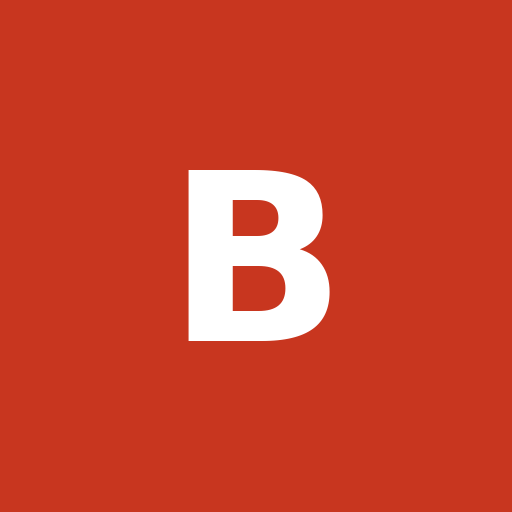
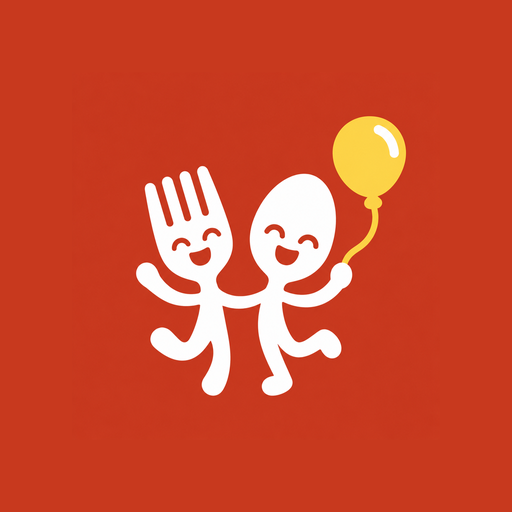
Novo ícone do app (mascote garfo e colher)

Changed region(s): [[0.25, 0.2188, 0.8125, 0.7812]]

diff --git a/index.html b/index.html
@@ -5,7 +5,7 @@
     <meta name="viewport" content="width=device-width, initial-scale=1, maximum-scale=1, user-scalable=no, viewport-fit=cover" />
     <meta name="theme-color" content="#C8361F" />
     <meta name="description" content="Onde comer hoje, com espaço kids." />
-    <link rel="icon" type="image/svg+xml" href="/favicon.svg" />
+    <link rel="icon" type="image/png" href="/favicon.png" />
     <link rel="apple-touch-icon" href="/apple-touch-icon.png" />
     <link rel="preconnect" href="https://fonts.googleapis.com" />
     <link rel="preconnect" href="https://fonts.gstatic.com" crossorigin />

diff --git a/vite.config.ts b/vite.config.ts
@@ -18,7 +18,7 @@ export default defineConfig({
     tailwindcss(),
     VitePWA({
       registerType: 'autoUpdate',
-      includeAssets: ['favicon.svg', 'apple-touch-icon.png'],
+      includeAssets: ['favicon.png', 'apple-touch-icon.png'],
       manifest: {
         name: 'BoraLah',
         short_name: 'BoraLah',
